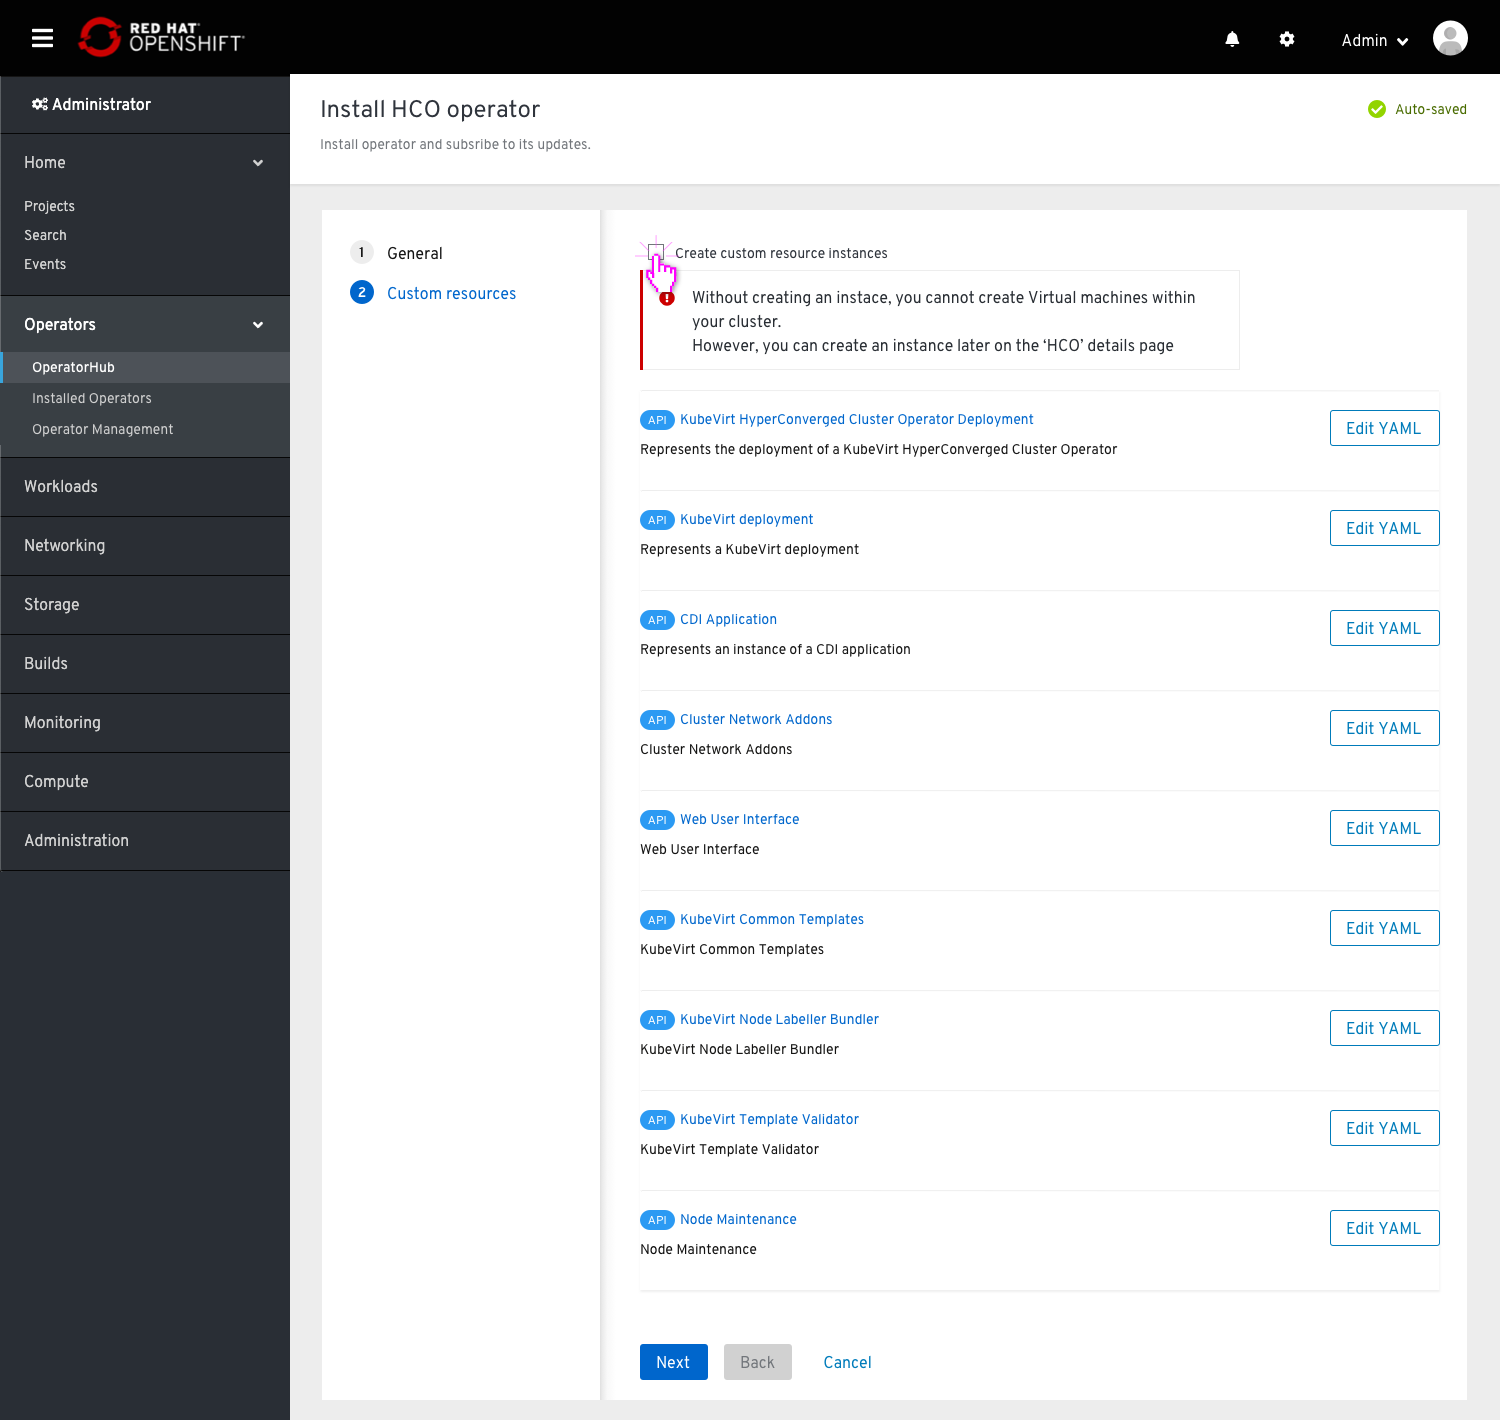
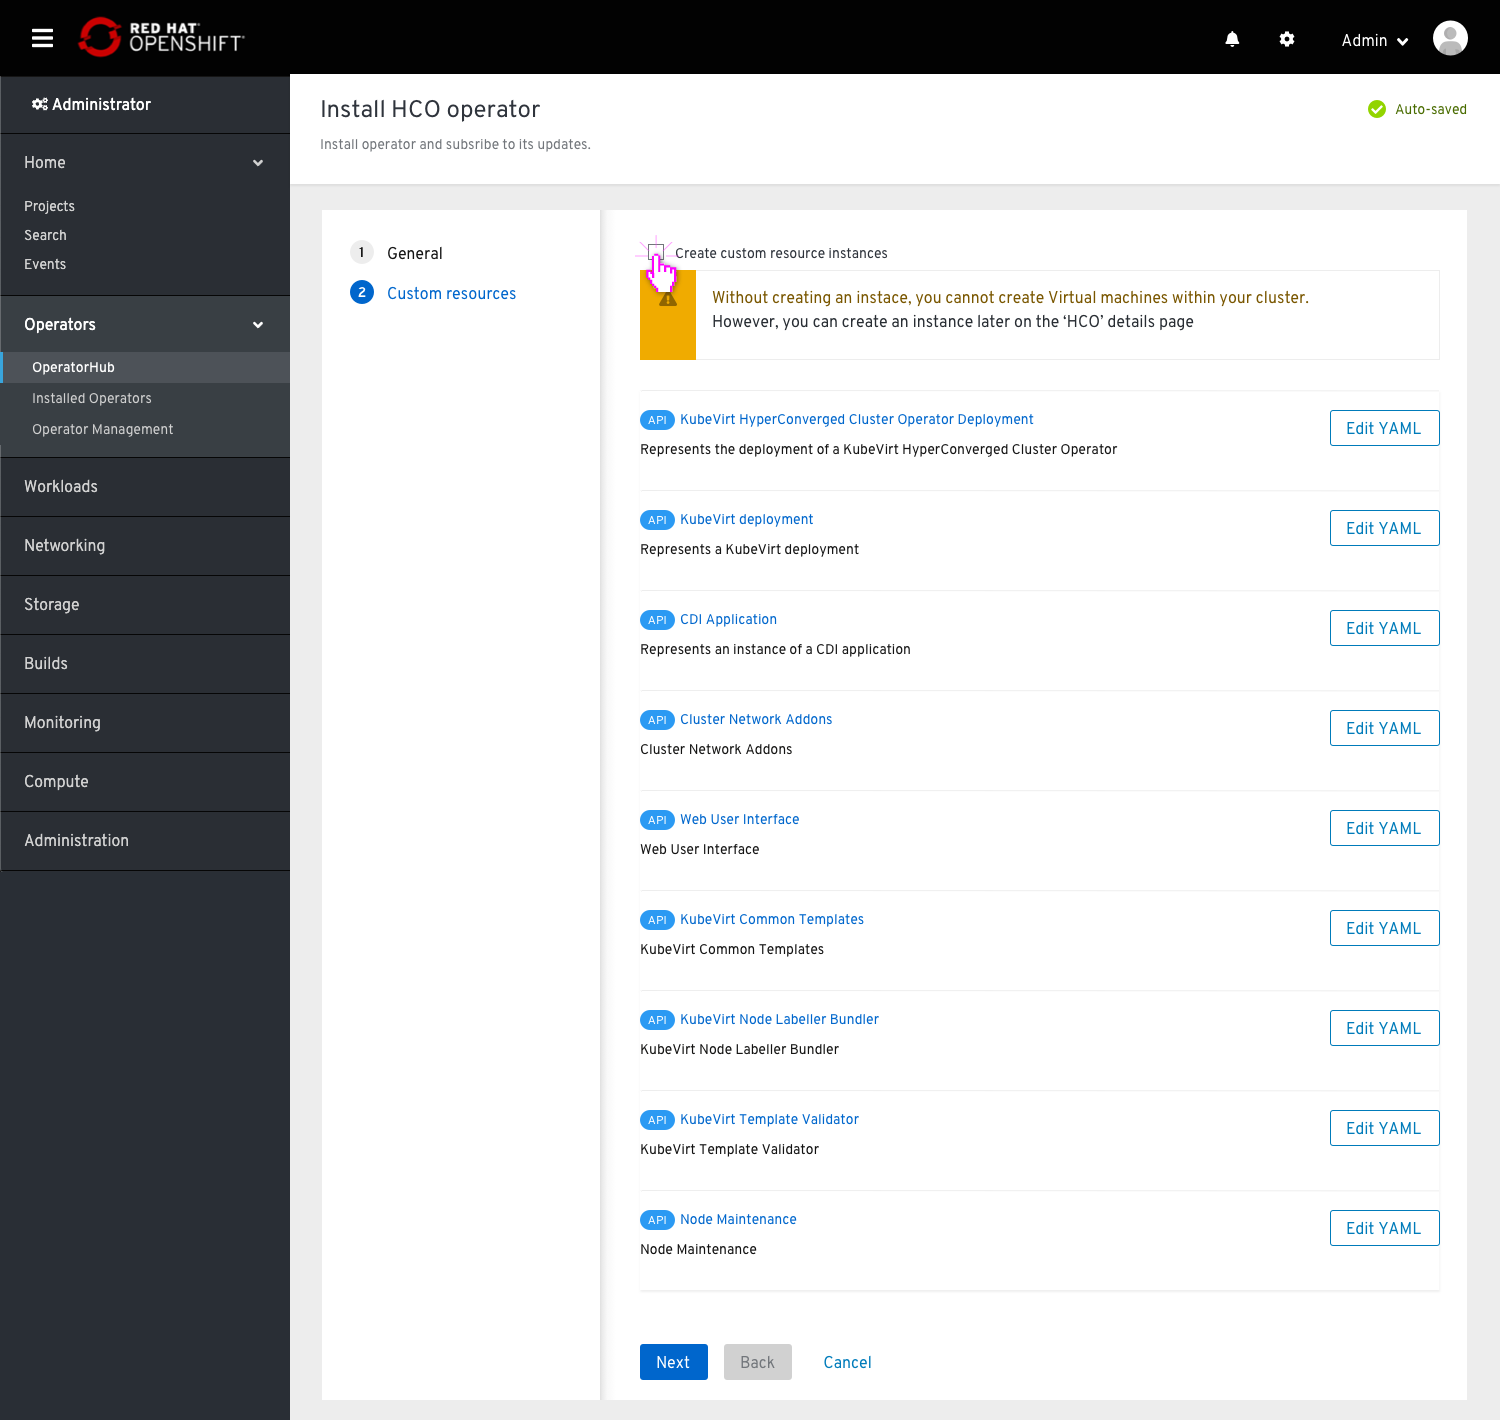
updating images according to PR comments

Changed region(s): [[0.4293, 0.1859, 0.8587, 0.2789]]

diff --git a/web-console/knikubevirt/deplying-kubevirt/deploying-kubevirt.md b/web-console/knikubevirt/deplying-kubevirt/deploying-kubevirt.md
@@ -3,7 +3,13 @@
 ## Pre-Installation
 
 ![BasSeaching for HCO on the OperatorHub](img/1-01.png)
-On the OperatorHub, get a match for searching “KubeVirt HyperConverged/CNV/virt/virtualization…” etc (we currently have only a hit with “Hyperconverged…”)
+On the OperatorHub, get a hit for searching any of the following:
+ - “KubeVirt
+ - "HyperConverged"
+ - "CNV"
+ - "Virtualization”
+ - "Virtual"
+ - "Machines"
 
 ![Installing Operator](img/1-02.png)
 After viewing details, including a list of the APIs, the user clicks ‘Install’
@@ -19,7 +25,7 @@ The subscription channel has only one option, therefore it is disabled, but visi
 The user toggles to “A specific project” on the project field
 
 ![General step - next step](img/2-01.png)
-The user leaves the rest to default and goes to the next step
+The user can uncheck the “Create custom resource instances” checkbox.
 
 ### Custom resources
 
